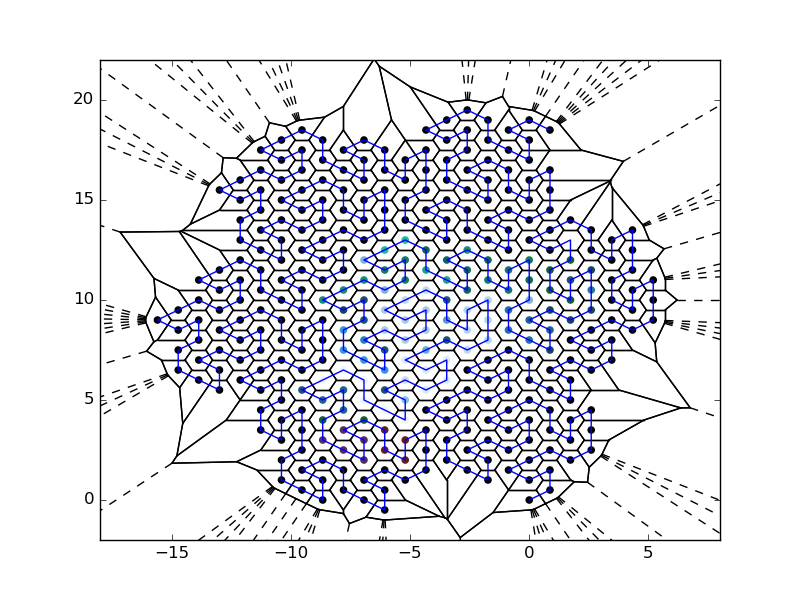
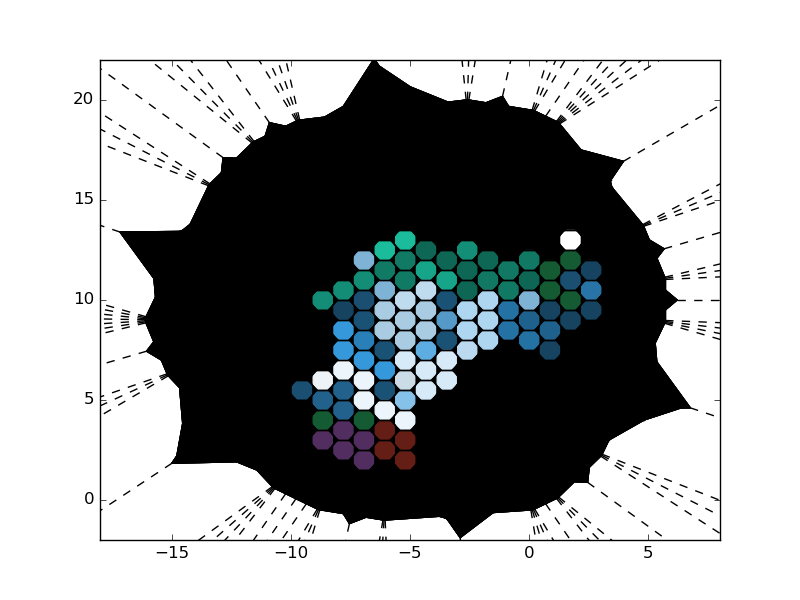
用最笨的方式处理环境

diff --git a/envir/gosper_show.py b/envir/gosper_show.py
@@ -50,11 +50,11 @@ for simplex in vor.ridge_vertices:
 #%%
 for i,region in enumerate(regions):
         # c_i = color[vor.point_region[i]]
-        if -1 in region:
+        # if -1 in region:
     # c_i = vor.point_region[i]
             polygon = [vor.vertices[n] for n in region]
     # if i<len(color):
-            plt.fill(*zip(*polygon), color='#ffffff')
+            plt.fill(*zip(*polygon), color="#000000")
     # print(color[i])
     # print(np.where(vor.point_region==i))
     # if -1 in region:
@@ -70,8 +70,8 @@ for i,region in enumerate(regions):
 
 # print(vor.points [i])
             # print(color[i])
-plt.scatter(x, y, color=color)
-plt.plot(x, y)
+plt.scatter(x, y, color=color,s=220,marker='8')
+# plt.plot(x, y)
 plt.axis([-18,8,-2,22])
 # plt.xlim([-9,0]), plt.ylim([3,12])
 plt.savefig('voro.png')
